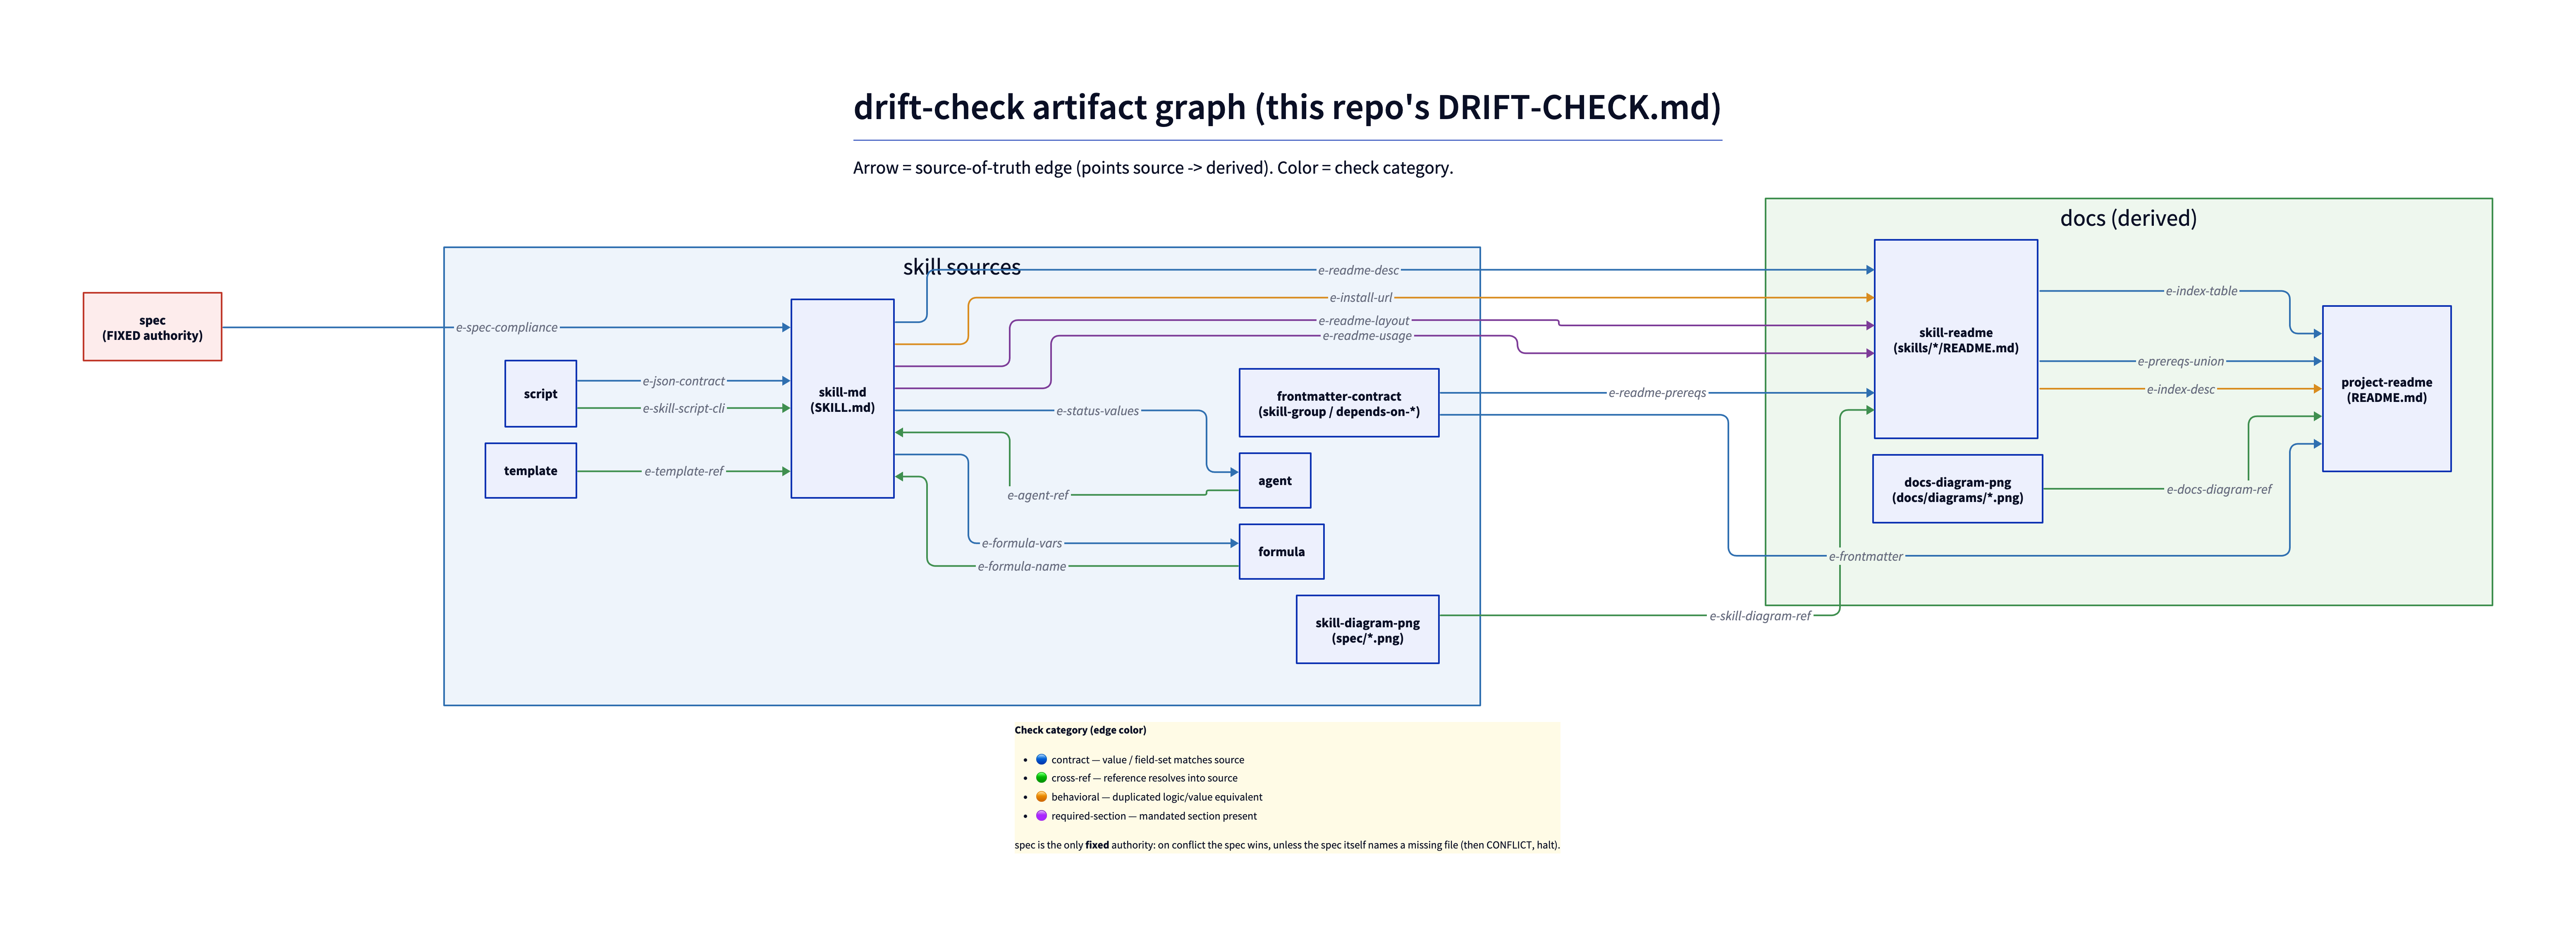
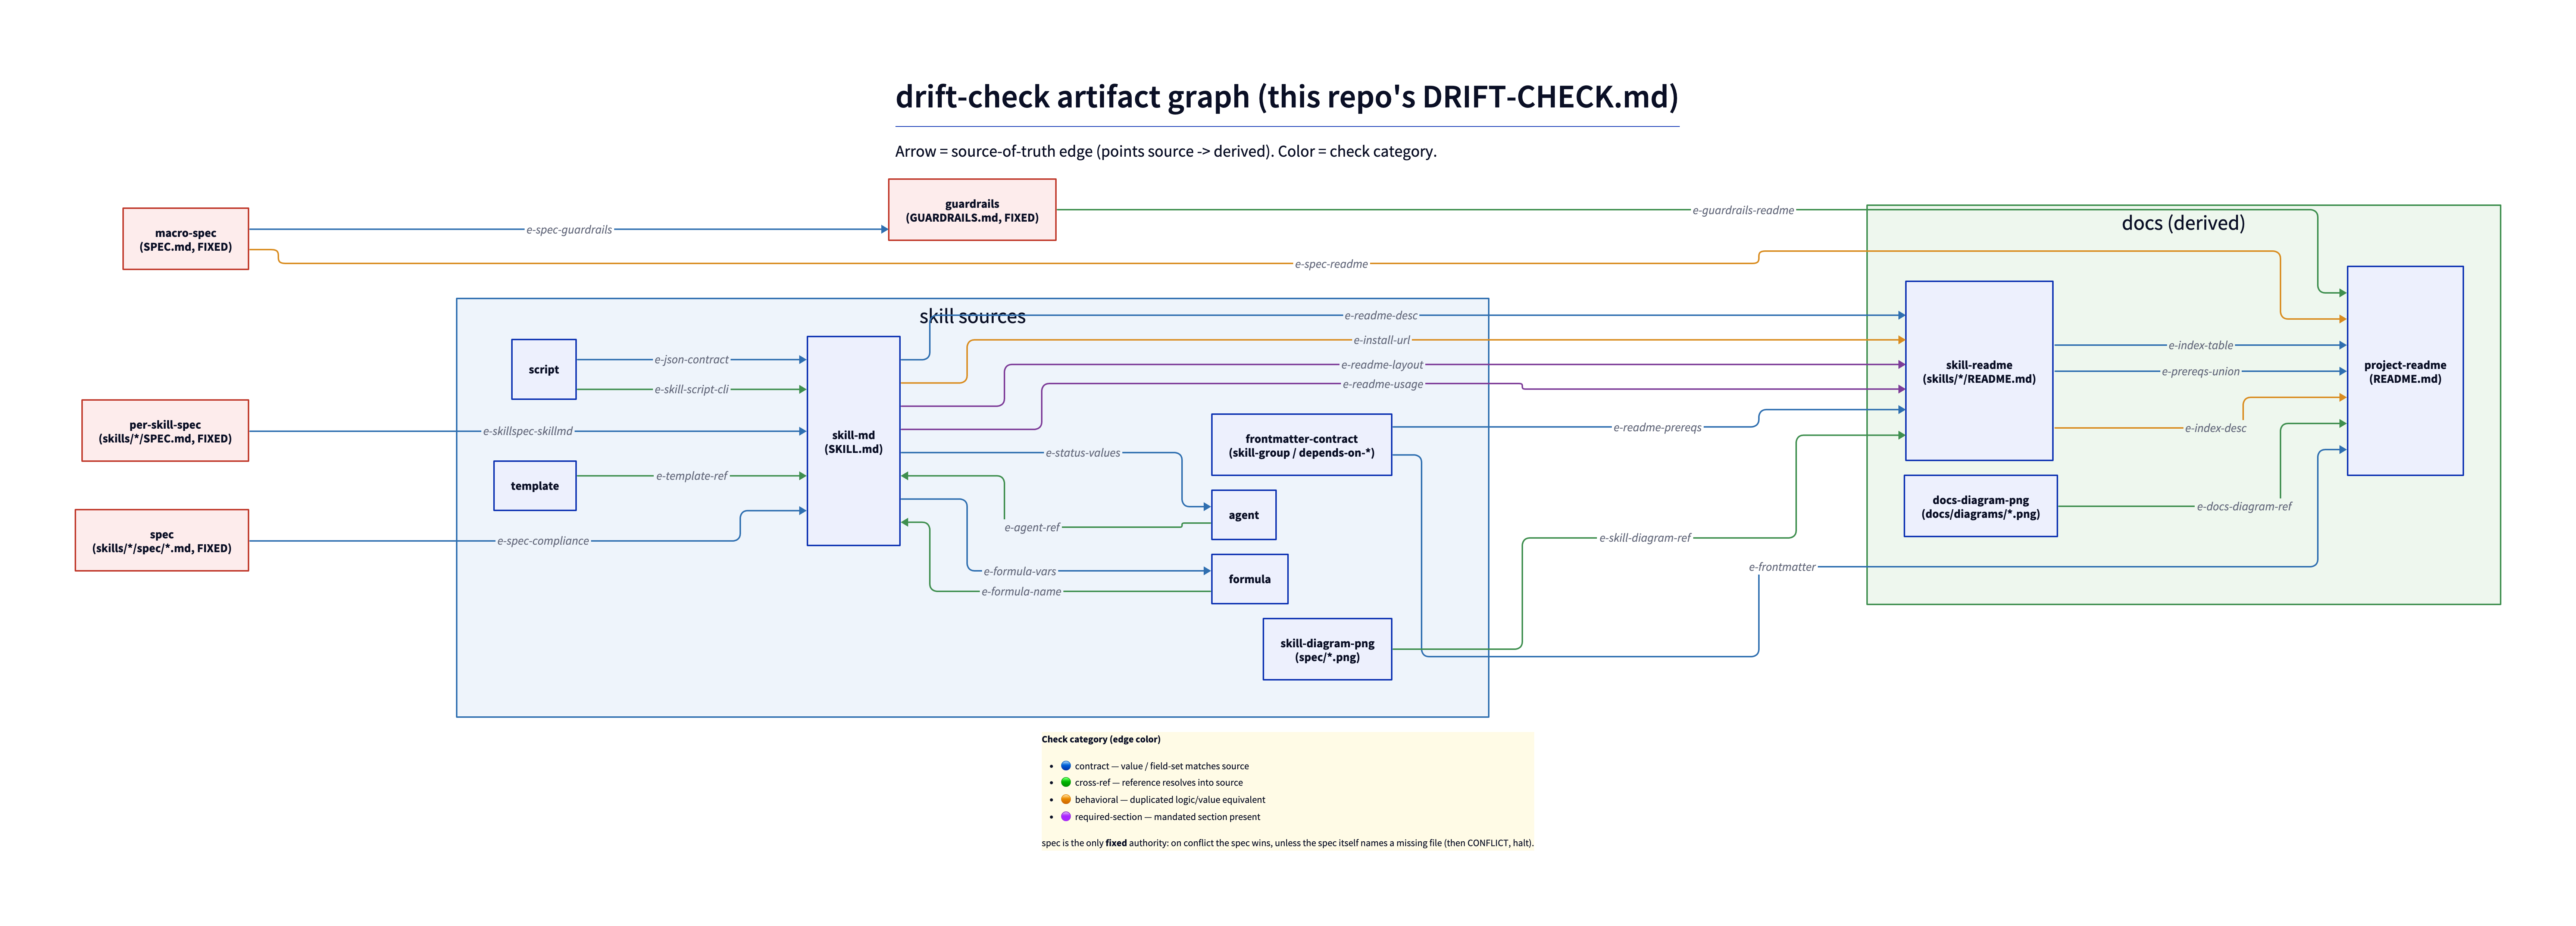
plan-010: final docs pass (5.2) + enforceable spec drift edges (5.3)
- README: Operating & health section (yf doctor/status/upgrade/preflight, .yf state+config, yf migrate); operational model coherent end-to-end
- DRIFT-CHECK.md: macro-spec/guardrails/per-skill-spec nodes + e-spec-guardrails/e-spec-readme/e-guardrails-readme/e-skillspec-skillmd edges + contracts + trigger globs + §7 update; artifact-graph diagram regenerated
- known SPEC REQ-YF-PRE-004 config-path typo documented as held CONFLICT for operator ratification at land

diff --git a/DRIFT-CHECK.md b/DRIFT-CHECK.md
@@ -37,6 +37,9 @@ The graph this manifest declares — nodes, source-of-truth edges, and the four 
 | `template` | `skills/*/templates/*` | source | derived | optional |
 | `skill-readme` | `skills/*/README.md` | doc | derived | required |
 | `project-readme` | `README.md` | doc | derived | required |
+| `macro-spec` | `SPEC.md` | spec | fixed | required |
+| `guardrails` | `GUARDRAILS.md` | spec | fixed | required |
+| `per-skill-spec` | `skills/*/SPEC.md` | spec | fixed | optional |
 | `skill-diagram-png` | `skills/*/spec/*.png` | source | derived | optional |
 | `docs-diagram-png` | `docs/diagrams/*.png` | source | derived | optional |
 
@@ -65,6 +68,10 @@ The graph this manifest declares — nodes, source-of-truth edges, and the four 
 | `e-prereqs-union` | `skill-readme` | `project-readme` | contract |
 | `e-skill-diagram-ref` | `skill-diagram-png` | `skill-readme` | cross-ref |
 | `e-docs-diagram-ref` | `docs-diagram-png` | `project-readme` | cross-ref |
+| `e-spec-guardrails` | `macro-spec` | `guardrails` | contract |
+| `e-spec-readme` | `macro-spec` | `project-readme` | behavioral |
+| `e-guardrails-readme` | `guardrails` | `project-readme` | cross-ref |
+| `e-skillspec-skillmd` | `per-skill-spec` | `skill-md` | contract |
 
 ## 3. Per-Edge Contracts
 
@@ -91,6 +98,10 @@ The graph this manifest declares — nodes, source-of-truth edges, and the four 
 | `e-prereqs-union` | `field-set-equal` | the project README Prerequisites table is the union of all skill READMEs' prerequisites. |
 | `e-skill-diagram-ref` | `path-resolves` | every markdown image reference `![alt](spec/<slug>.png)` in a skill README resolves to a real PNG under that skill's `spec/`. Render freshness is NOT checked here (owned by `render.py check-dir`); diagram-vs-prose semantics are out of scope. |
 | `e-docs-diagram-ref` | `path-resolves` | every markdown image reference `![alt](docs/diagrams/<slug>.png)` in a covered top-level doc (the project `README.md` and `DRIFT-CHECK.md`) resolves to a real PNG under `docs/diagrams/`. Render freshness and semantics out of scope (as above). |
+| `e-spec-guardrails` | `field-set-subset` | `GUARDRAILS.md` does not contradict any `SPEC.md` REQ-* statement; read both and compare. The macro spec is fixed authority — a guardrail that conflicts with a REQ is the guardrail drifting (FAIL on guardrails), unless the SPEC itself is stale (CONFLICT, §7). |
+| `e-spec-readme` | `field-set-subset` | the operational model `README.md` describes (install / preflight / config-and-state paths / skill names) does not contradict any `SPEC.md` REQ-* statement; read both and compare. SPEC is fixed authority. Known pre-existing discrepancy held for operator ratification, NOT introduced by README: REQ-YF-PRE-004 says config `.yf/<skill>.local.json` while README/MIGRATION/impl use `.yf-<skill>.local.json` (a `-`→`/` typo, decision C). Do not flag README for this until SPEC is ratified. |
+| `e-guardrails-readme` | `field-set-subset` | any guardrail (`GUARDRAILS.md` GR-*) that constrains user-facing behavior README documents (e.g. operator-owned files `yf` must not edit, install/migration behavior) is reflected, not contradicted, in `README.md`. |
+| `e-skillspec-skillmd` | `field-set-subset` | for a skill carrying a `SPEC.md`, the `SKILL.md` behavior does not violate any REQ-* statement in that spec; read each and compare. A fixed-authority conflict (the spec is stale) is a CONFLICT, not a FAIL (§7). |
 
 ## 4. Referencers (orphan check)
 
@@ -129,23 +140,34 @@ content-agreement axis).
 
 | Changed-Path Glob | Scopes To |
 |-------------------|-----------|
-| `skills/*/SKILL.md` | `e-spec-compliance`, `e-skill-script-cli`, `e-formula-name`, `e-agent-ref`, `e-template-ref`, `e-json-contract`, `e-status-values`, `e-formula-vars`, `e-install-url`, `e-readme-layout`, `e-readme-prereqs`, `e-readme-usage`, `e-readme-desc`, `e-frontmatter` |
+| `skills/*/SKILL.md` | `e-spec-compliance`, `e-skill-script-cli`, `e-formula-name`, `e-agent-ref`, `e-template-ref`, `e-json-contract`, `e-status-values`, `e-formula-vars`, `e-install-url`, `e-readme-layout`, `e-readme-prereqs`, `e-readme-usage`, `e-readme-desc`, `e-frontmatter`, `e-skillspec-skillmd` |
 | `skills/*/spec/*.md` | `e-spec-compliance` |
 | `skills/*/agents/*.md` | `e-agent-ref`, `e-status-values` |
 | `skills/*/scripts/*.{sh,py}` | `e-skill-script-cli`, `e-json-contract` |
 | `skills/*/formulas/*.toml` | `e-formula-name`, `e-formula-vars` |
 | `skills/*/templates/*` | `e-template-ref` |
 | `skills/*/README.md` | `e-install-url`, `e-readme-layout`, `e-readme-prereqs`, `e-readme-usage`, `e-readme-desc`, `e-index-table`, `e-index-desc`, `e-prereqs-union`, `e-skill-diagram-ref` |
-| `README.md` | `e-index-table`, `e-index-desc`, `e-frontmatter`, `e-prereqs-union`, `e-docs-diagram-ref` |
+| `README.md` | `e-index-table`, `e-index-desc`, `e-frontmatter`, `e-prereqs-union`, `e-docs-diagram-ref`, `e-spec-readme`, `e-guardrails-readme` |
+| `SPEC.md` | `e-spec-guardrails`, `e-spec-readme` |
+| `GUARDRAILS.md` | `e-spec-guardrails`, `e-guardrails-readme` |
+| `skills/*/SPEC.md` | `e-skillspec-skillmd` |
 | `DRIFT-CHECK.md` | `e-docs-diagram-ref` |
 | `skills/*/spec/*.png` | `e-skill-diagram-ref` |
 | `docs/diagrams/*.png` | `e-docs-diagram-ref` |
 
 ## 7. Fixed-Authority Conflict Policy
 
-`spec` (`skills/*/spec/*.md`) is the sole `fixed` authority. On an `e-spec-compliance` conflict,
-the spec wins: report the SKILL.md (or other implementation) as drifted; never edit a spec to
-make an implementation fit. **Exception (the E4 lesson):** if the evidence shows the authority
-itself is stale — it names a file, tool, or identifier that does not exist — emit a **CONFLICT**,
-report it to the operator, and halt; never silently rewrite either side. This is exactly how the
-old `DOCUMENTATION.md` came to name a `check-prereqs.sh` that was never in the repo.
+The `fixed`-authority nodes are the spec set: `spec` (`skills/*/spec/*.md`), `macro-spec`
+(`SPEC.md`), `guardrails` (`GUARDRAILS.md`), and `per-skill-spec` (`skills/*/SPEC.md`). On a
+conflict across any spec-rooted edge (`e-spec-compliance`, `e-skillspec-skillmd`,
+`e-spec-guardrails`, `e-spec-readme`, `e-guardrails-readme`), the spec/guardrail wins: report
+the derived node (SKILL.md, README.md, GUARDRAILS.md, or other implementation/doc) as drifted;
+never edit a spec or guardrail to make a derived artifact fit. **Exception (the E4 lesson):** if
+the evidence shows the authority itself is stale — it names a file, tool, or identifier that does
+not exist, or carries a known unratified typo — emit a **CONFLICT**, report it to the operator,
+and halt; never silently rewrite either side. This is exactly how the old `DOCUMENTATION.md` came
+to name a `check-prereqs.sh` that was never in the repo. **Known open CONFLICT (held for operator
+ratification at land):** `SPEC.md` REQ-YF-PRE-004 names config `.yf/<skill>.local.json` while
+`README.md`, `docs/MIGRATION.md`, and the implementation use `.yf-<skill>.local.json` (a `-`→`/`
+typo, decision C). Until ratified, `e-spec-readme` treats this as the held CONFLICT, not a README
+FAIL.

diff --git a/README.md b/README.md
@@ -49,6 +49,30 @@ Each skill installs **with its companion rules** (`protocols/*.md`) copied into 
 block the install (exit 0) unless `--strict` is given — skill files are inert until the tool
 is present.
 
+## Operating & health
+
+After install, the `yf` CLI is the single front door for skill health:
+
+```bash
+yf doctor                        # toolchain + per-skill install health, all in one report
+yf skills status                 # installed / up-to-date / complete, per skill (--json for machines)
+yf skills upgrade                # bring installed skills up to the embedded version
+yf preflight <skill>             # a single skill's readiness check (e.g. yf preflight plan)
+```
+
+`yf preflight <skill>` is the per-skill readiness gate the beads skills run before they do
+work — it probes system deps + min `bd` version, verifies the companion rule against the
+embedded manifest, checks/repairs the beads config (routing through `yf-beads-init`), and
+ensures the gitignore scaffold. Its `--json` output is the machine-readable verdict (a
+`status` enum; parse the field, not the exit code). See
+[docs/yf/preflight-contract.md](docs/yf/preflight-contract.md) for the full contract.
+
+Per-skill runtime state lives under `.yf/<skill>/` and operator config under
+`.yf-<skill>.local.json`. If you are coming from the pre-`yf` skills (`bdplan`/`bdresearch`
+and the `.state/` layout), run `yf migrate` once — it idempotently moves legacy state/config
+into the `.yf/` layout. See [docs/MIGRATION.md](docs/MIGRATION.md) for the one-time rename
+guide (skill names, `/commands`, `.gitignore` anchors).
+
 ## Skill frontmatter contract
 
 Each skill's `SKILL.md` frontmatter declares its install group and dependencies. `yf skills install`